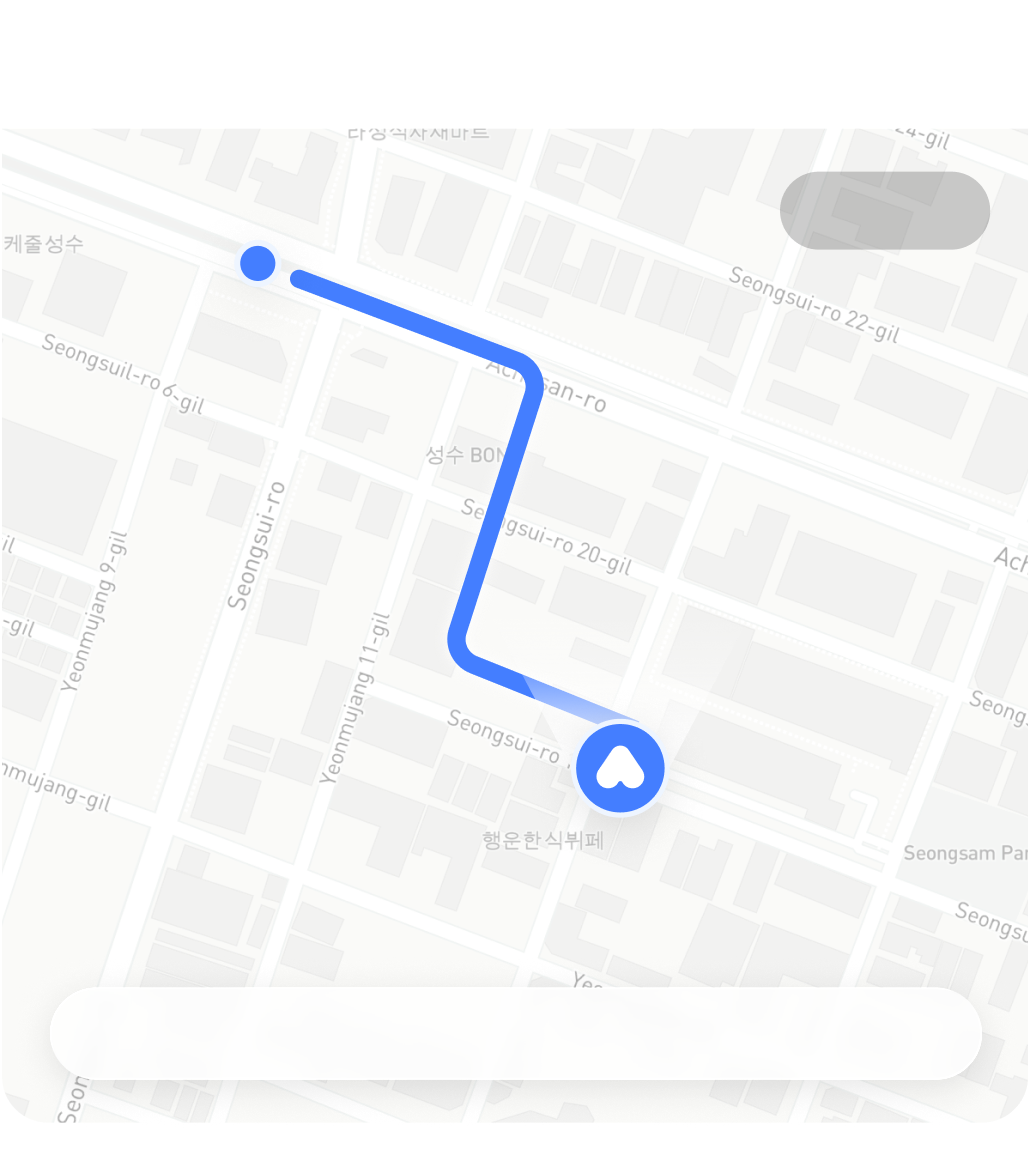
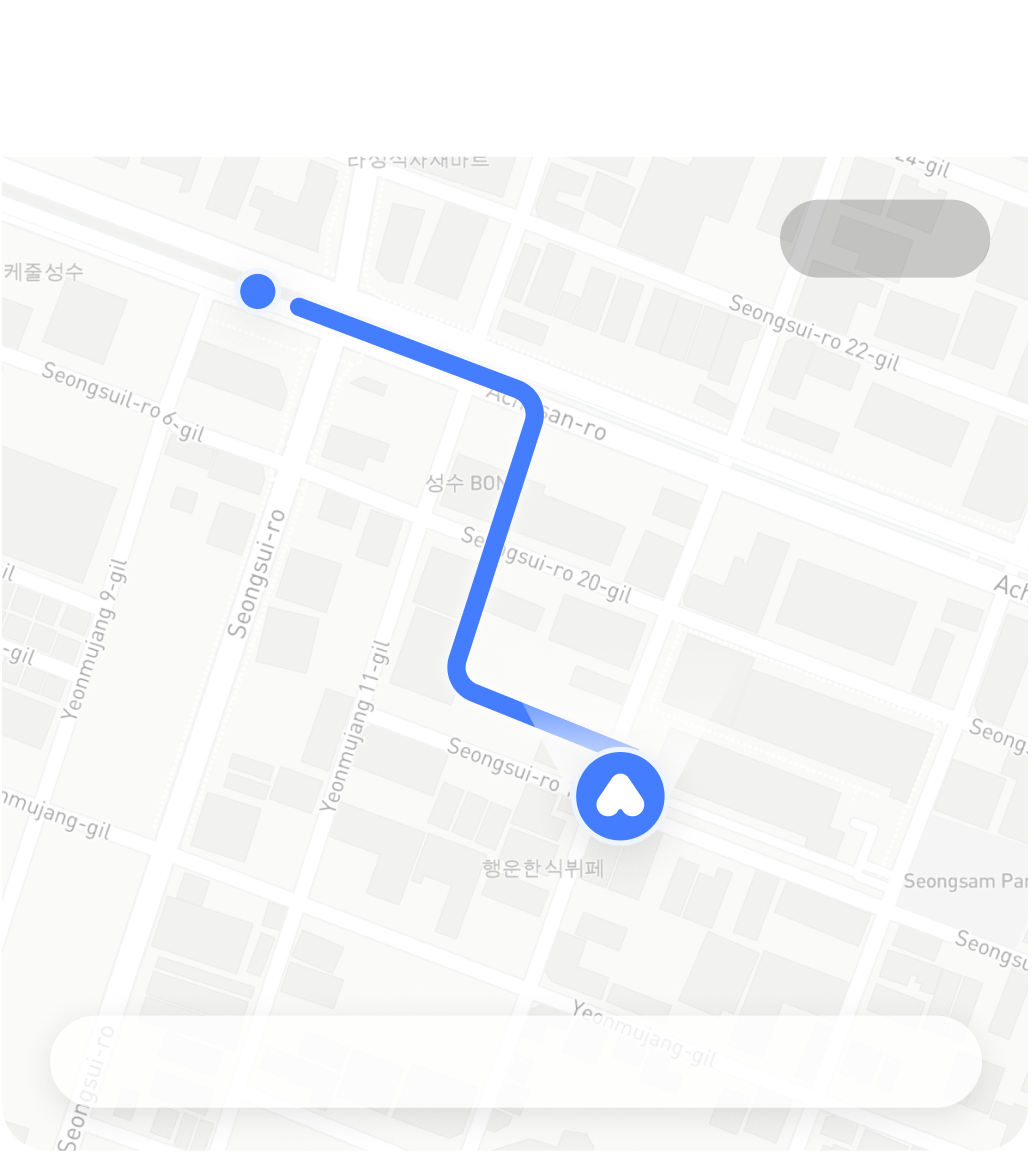
Fix shifted Collection/Nav panels; metrics back to Figma right alignment
Text-free exports had collapsed auto-layout; re-exported with transparent text.

Claude-Session: https://claude.ai/code/session_017G5jazSkNc7M5EFFoVJm2w

diff --git a/explore/index.html b/explore/index.html
@@ -21,7 +21,7 @@ img{display:block}
 @font-face{font-family:Manrope;font-weight:400;src:url(fonts/manrope-latin-400-normal.woff2) format("woff2")}
 @font-face{font-family:Montserrat;font-weight:700;src:url(fonts/montserrat-latin-700-normal.woff2) format("woff2")}
 /* right-side metrics as live text (Figma: 120 wide, 24 gap, value 25.9 Montserrat Bold, label 8 Manrope +6%) */
-#metrics{width:120px;padding-top:28px;display:flex;flex-direction:column;gap:24px;text-align:center;color:#fff}
+#metrics{width:120px;padding-top:28px;display:flex;flex-direction:column;gap:24px;text-align:right;color:#fff}
 #metrics b{display:block;font:700 25.89px/30px Montserrat,sans-serif}
 #metrics small{display:block;margin-top:3px;font:400 7.97px/11px Manrope,sans-serif;letter-spacing:.06em;text-transform:uppercase;color:#d1d1d1}
 #cardS{width:337px;height:482.5px;border-radius:15.7px;backdrop-filter:blur(23px);-webkit-backdrop-filter:blur(23px);box-shadow:0 0 118px rgba(0,0,0,.25)}
